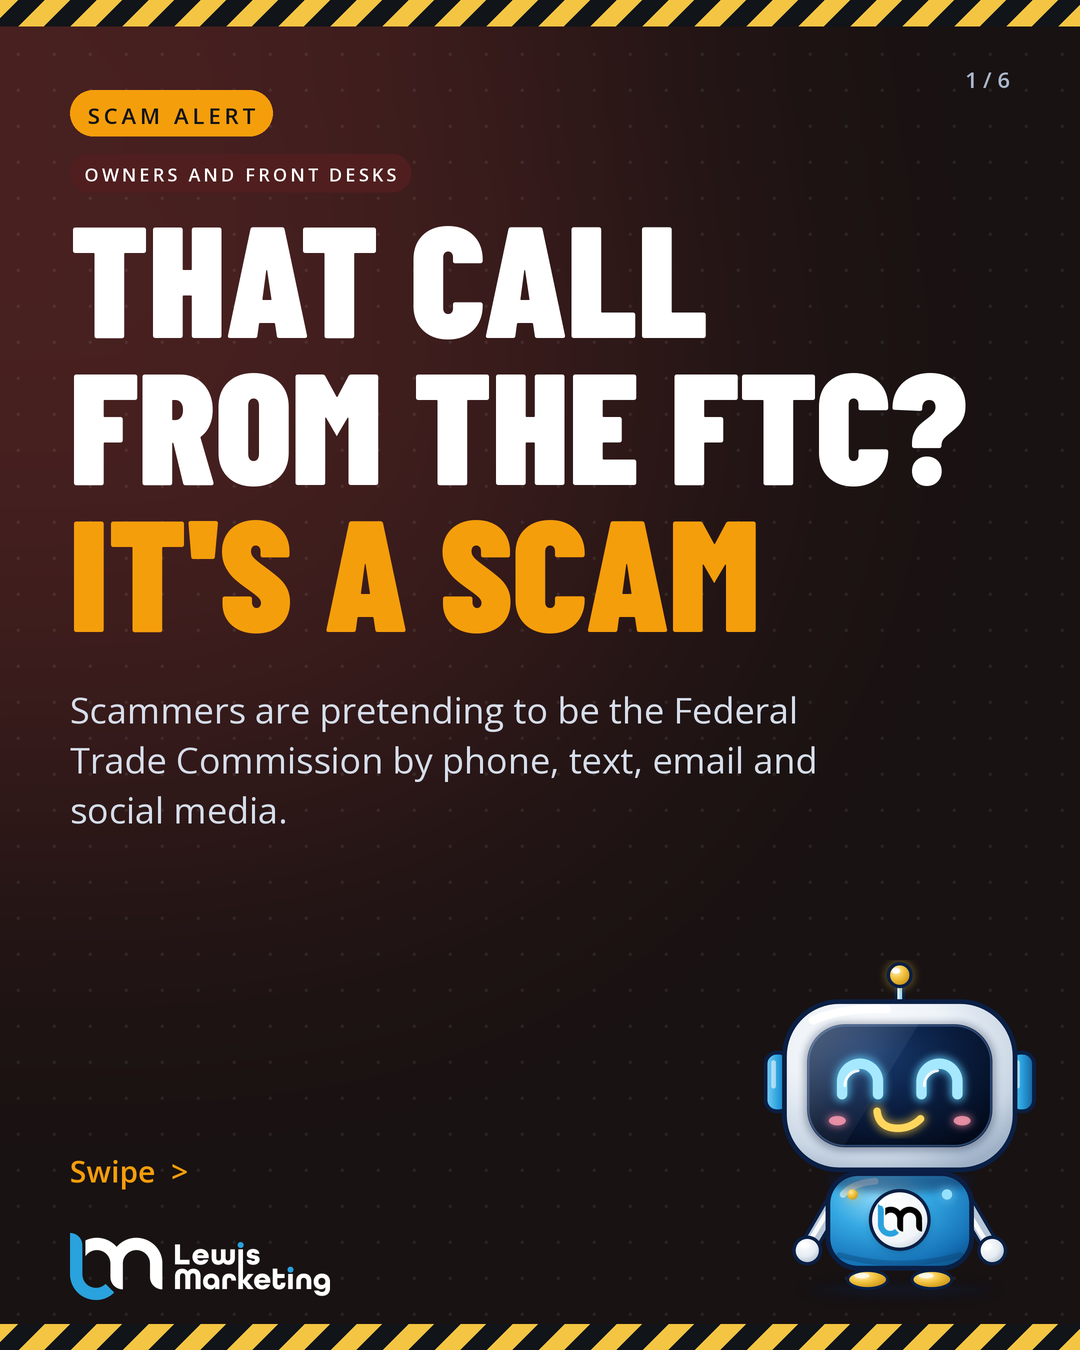
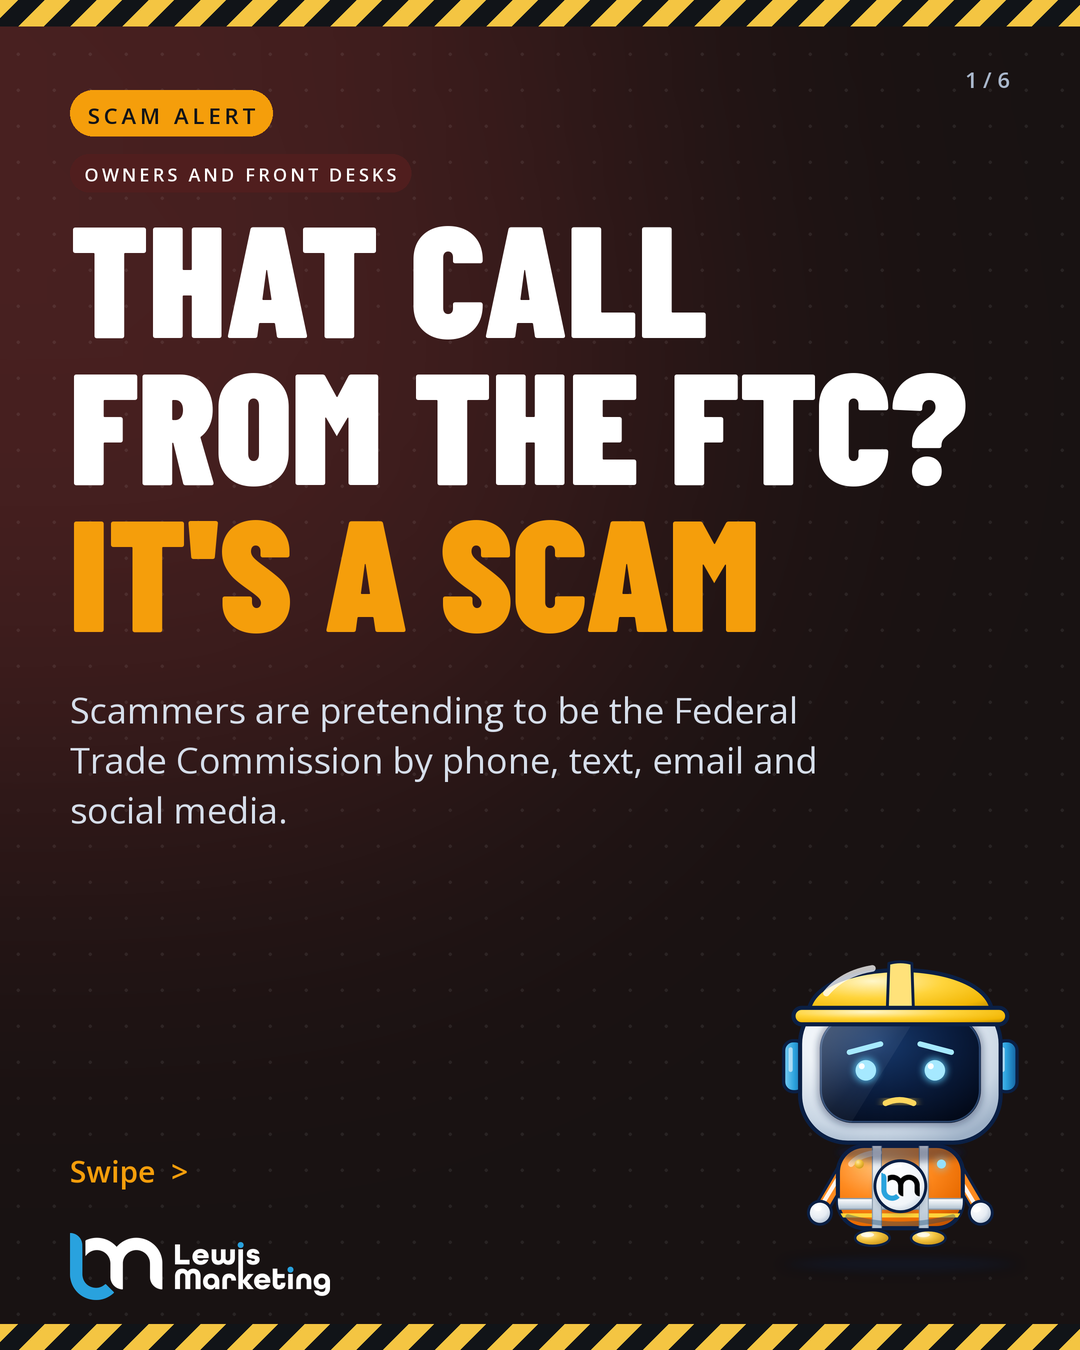
Scam Alert Howie: serious face, hard hat and hi-vis vest; re-render Nov 19 scam alert
Claude-Session: https://claude.ai/code/session_018UP1NUPFGMxU7XRsgwSSZP

Changed region(s): [[0.7028, 0.7156, 0.9778, 0.9644]]

diff --git a/daily-social/engine/howie/shoot2.js b/daily-social/engine/howie/shoot2.js
@@ -1,0 +1,11 @@
+const {chromium}=require('playwright');const fs=require('fs');
+const svg=fs.readFileSync(process.argv[2]||'howie.svg','utf8');
+const poses={idle:[12,12,0,0,0],pointL:[78,14,1,0,0],pointR:[14,78,0,1,0],wave:[14,112,0,0,1],cheer:[100,100,0,0,1]};
+(async()=>{const b=await chromium.launch({});const p=await b.newPage({viewport:{width:1400,height:1500}});
+await p.setContent(`<html><body style="margin:0;background:transparent"><div id=w style="padding:150px 190px 60px">${svg}</div></body></html>`);
+for(const [n,[aL,aR,fl,fr,open]] of Object.entries(poses)){
+ await p.evaluate(([aL,aR,fl,fr,open])=>{const g=id=>document.getElementById(id);
+  g('m-armL').setAttribute('transform',`rotate(${aL} 140 258)`);g('m-armR').setAttribute('transform',`rotate(${-aR} 280 258)`);
+  g('m-fL').style.display=fl?'':'none';g('m-fR').style.display=fr?'':'none';g('m-smile').style.display=open?'none':'';g('m-open').style.display=open?'':'none';},[aL,aR,fl,fr,open]);
+ await p.locator('#w').screenshot({path:`howie-${process.argv[3]?process.argv[3]+'-':''}${n}.png`,omitBackground:true});}
+await b.close()})();

diff --git a/daily-social/engine/render_carousel.py b/daily-social/engine/render_carousel.py
@@ -14,7 +14,7 @@ spec = {
   "cta": {"head": "Want this done for you?", "sub": "One line.", "button": "lewismarketingoc.com"},
   "sources": ["FTC consumer alert, Nov 2026"]      # alert: required, printed on the last slide; playbook: any stat sources
 }
-Howie is on the cover and the last slide. Logo on every slide (all white on blue, two-tone white on navy, color on light).
+Howie is on the cover and the last slide. Scam Alert Howie (Michael's rule, Nov 14, 2026): never smiling, concerned face, yellow hard hat and hi-vis safety vest (howie/howie-safety-*.png, made from howie/howie-safety.svg with shoot2.js). Logo on every slide (all white on blue, two-tone white on navy, color on light).
 """
 import json, os, sys
 HERE = os.path.dirname(os.path.abspath(__file__)); sys.path.insert(0, HERE)
@@ -49,7 +49,7 @@ def cover(s, n, path):
     d.text((P(L), P(H - 200)), "Swipe  >", font=SEMI(30), fill=AMBER if alert else SUN)
     counter(d, 1, n, (170, 184, 204))
     logo(im, True, L, None, 260)
-    howie(im, s.get("howie"), {"pose": "pointL" if not alert else "idle", "x": 900, "feet": H - 60, "h": 330})
+    howie(im, s.get("howie"), {"pose": "safety-idle" if alert else "pointL", "x": 900, "feet": H - 60 - (26 if alert else 0), "h": 340 if alert else 330})
     return finish(im, path)
 
 
@@ -95,7 +95,7 @@ def last(s, n, path):
             for ln in wrap(src, BODY(22), P(560)): d.text((P(L), P(sy)), ln, font=BODY(22), fill=(230, 238, 246)); sy += 30
     counter(d, n, n, (220, 232, 244))
     logo(im, True, L, None, 260)
-    howie(im, s.get("howie_end"), {"pose": "wave", "x": 900, "feet": H - 60, "h": 330})
+    howie(im, s.get("howie_end"), {"pose": "safety-pointL" if alert else "wave", "x": 900, "feet": H - 60, "h": 340 if alert else 330})
     return finish(im, path)
 
 

diff --git a/daily-social/SKILL.md b/daily-social/SKILL.md
@@ -70,7 +70,7 @@ Michael's rule (Nov 14, 2026): anything posted from Behind the Storefront (clips
 ## Extra series: Industry Playbook and Scam Alert (Michael's rule, Nov 14, 2026)
 These are ADDED to the calendar; they never replace or move a morning or afternoon post. Both are evening extras like Stat Snack: Facebook, Instagram, Threads and Bluesky only (LinkedIn and Google Business keep their reach for the main posts), 7:00 PM Central, daily doc id `xs-<date>-playbook` / `xs-<date>-scam`, `slot:"evening"`, status `review` (Michael approves in the hub; its HighLevel button schedules). Never on a `localcal` date with promo "none", and never on Wednesday (Stat Snack / Notebook night) or on a day that already has an evening post.
 - **Industry Playbook** (Tuesdays, weekly): a 5-7 slide carousel for one industry at a time, rotating through `settings.extraSeries.industries` (never the same industry within 10 weeks): where that industry's customers (and, where it matters, job seekers) look, what to post, what to fix, what to track. Practical moves only; any statistic needs a credible source on the slide and in the first comment; never name a client unless Michael gave permission. Render with `python3 daily-social/engine/render_carousel.py daily-social/extras/<date>-playbook.json` (theme "playbook"), asset `{type:"carousel", slides:["daily/x/<date>-playbook/s1.png", ...]}`. First comment: the best saved link for the industry with tracking tags.
-- **Scam Alert** (Thursdays, only when there is a real one): a carousel (theme "alert") about a scam currently hitting small businesses or organizations, built ONLY from an official or highly credible source published in the last 30 days (FTC consumer or business alerts, BBB Scam Tracker or BBB news, Iowa or South Dakota Attorney General, FBI/IC3, CISA, or the platform's own help or newsroom pages for Meta, Google and similar). Slides: what it looks like, the red flags, what to do, how to report it; the source on the last slide and the source link as the first comment. No selling: the CTA is "share this". Never exaggerate, never name a business as a scammer unless the source does, and skip the week if nothing new and credible is circulating. Record covered scams in `settings.extraSeries.scamsCovered`.
+- **Scam Alert** (Thursdays, only when there is a real one; Howie never smiles on these and wears his safety gear, a yellow hard hat and hi-vis vest, which the "alert" theme does automatically): a carousel (theme "alert") about a scam currently hitting small businesses or organizations, built ONLY from an official or highly credible source published in the last 30 days (FTC consumer or business alerts, BBB Scam Tracker or BBB news, Iowa or South Dakota Attorney General, FBI/IC3, CISA, or the platform's own help or newsroom pages for Meta, Google and similar). Slides: what it looks like, the red flags, what to do, how to report it; the source on the last slide and the source link as the first comment. No selling: the CTA is "share this". Never exaggerate, never name a business as a scammer unless the source does, and skip the week if nothing new and credible is circulating. Record covered scams in `settings.extraSeries.scamsCovered`.
 
 ## Quality check before anything posts
 Michael's request (Nov 14, 2026). Before scheduling any post, run `python3 tools/qc.py copy posts.json` (a list of {platform, text, firstComment}) and `python3 tools/qc.py image <file>` / `video <file>` on media made outside the render Action (the Action already checks its own renders: `qc` in `tools/render/results/`). Errors block scheduling: emojis in copy, "Piper Financial Group" shortened, the podcast named anything but "The Marketing Lens", over a platform's length limit, more than 5 Instagram hashtags, leftover placeholders, wrong video size or codec, too quiet or loud, opening on black. Warnings (a stat without a link, detail in a 9:16 safe zone, a long first line) get a look and a fix when real.
